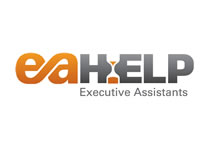
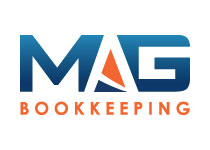
Numerous updates to bring code & styling in line with eaHELP theme

diff --git a/styles/main.less b/styles/main.less
@@ -5,10 +5,9 @@
 
 /* TYPOGRAPHY DEFAULTS */
 
-@text-color: #555;
-@link-color: #f90;
-@link-color-hover: #f90;
-@link-color-active: lighten(#f90, 20%);
+@text-color: @brand-text-color;
+@link-color: @brand-link-color;
+@link-color-active: lighten(@link-color, 20%);
 
 // Title text defaults
 // @headline-font-family is defined in variables.less
@@ -16,6 +15,7 @@
 @headline-line-height: 1.2;
 
 .headline-font() {
+  color: @brand-title-color;
   font-family: @headline-font-family;
   font-size: @headline-font-size;
   line-height: @headline-line-height;
@@ -154,12 +154,12 @@
 
 #footer {
   height: 100px;
-  #gradient > .vertical(@EAHgray, darken(@EAHgray, 20%));
+  #gradient > .vertical(@brand-gradient-color, darken(@brand-gradient-color, 20%));
   color: #eee;
   text-align: center;
   .body-font();
   margin-top: 60px;
-  padding-top: 10px;
+  padding-top: 20px;
   letter-spacing: 1px;
   a { color: #fff; }
 }
@@ -170,7 +170,7 @@
 
   #pop-title {
     width: auto !important;
-    padding: 0 20px !important;
+    padding: 20px !important;
   }
 
   #pop-links { right: 10px !important; }
@@ -179,6 +179,16 @@
     width: auto !important;
     margin: 20px auto !important;
     padding: 0 20px !important;
+  }
+
+  .asset-title {
+    font-size: 24px !important;
+    text-align: left !important;
+  }
+
+  .description, .body, p, li {
+    font-size: 14px !important;
+    text-align: left !important;
   }
 
   #header {
@@ -193,10 +203,11 @@
   #pop-links {
     display: block !important;
     position: relative !important;
-    margin: 10px auto 0 !important;
+    margin: 0 auto !important;
+    right: 0 !important;
   }
 
-  .asset-title { font-size: 18px !important; }
+  .asset-title { font-size: 20px !important; }
 
   #logo {
     margin: 0 auto !important;

diff --git a/styles/variables.less b/styles/variables.less
@@ -1,4 +1,14 @@
-@import 'MuseoSans'
+@font-face {
+    font-family: 'museo_sans500';
+    src: url('@{base-url}/fonts/MuseoSans/museosans_500-webfont.eot');
+    src: url('@{base-url}/fonts/MuseoSans/museosans_500-webfont.eot?#iefix') format('embedded-opentype'),
+         url('@{base-url}/fonts/MuseoSans/museosans_500-webfont.woff') format('woff'),
+         url('@{base-url}/fonts/MuseoSans/museosans_500-webfont.ttf') format('truetype'),
+         url('@{base-url}/fonts/MuseoSans/museosans_500-webfont.svg#museo_sans500') format('svg');
+    font-weight: normal;
+    font-style: normal;
+
+}
 
 // Use @base-url when specifying relative paths to images, fonts, 
 // and other resources.
@@ -27,7 +37,11 @@
 // Colors
 @MAGblue: #1A3B68;
 @MAGorange: #F26531;
-@brand-accent-color: @EAHorange;
+
+@brand-text-color: #7e8088; 	// from MAG website
+@brand-title-color: #196493;	// MAG blue variant used on website
+@brand-link-color: @MAGorange;
+@brand-gradient-color: #1a70a5;	// gradient on website footer
 
 /* END BRANDED THEME VARIABLES */
 
@@ -44,4 +58,4 @@
 // users if you set it up as one of your color palettes. See the 
 // Populr themer documentation for details on how this works:
 // http://developers.populr.me/theming/
-@accent-color: @brand-accent-color;
+@accent-color: @MAGorange;

diff --git a/index.html b/index.html
@@ -4,7 +4,7 @@
   <meta charset="utf-8">
 
   <!-- Name of yur theme -->
-  <title>eaHELP</title>
+  <title>MAG Bookkeeping</title>
 
 <!--
   <palette class="palette-default" name="Default" preview="#ffffff,#222222">
@@ -160,8 +160,8 @@
     {{/region}}
 
     <div id="footer">
-      Copyright © eaHELP<br>
-      <a href="http://www.eahelp.com/">www.eaHELP.com</a>
+      Copyright © MAG Bookkeeping<br>
+      <a href="http://magbookkeeping.com/">www.MAGbookkeeping.com</a>
     </div>
 
   </script>
